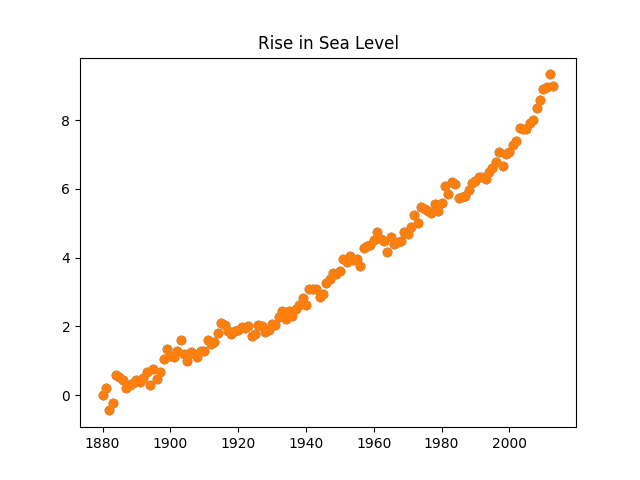
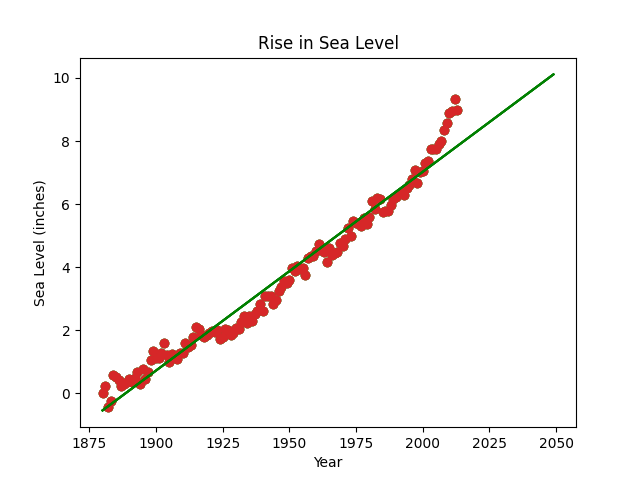
Pass test_plot_labels and test_plot_data_points.

diff --git a/test_module.py b/test_module.py
@@ -13,21 +13,21 @@ class LinePlotTestCase(unittest.TestCase):
         expected = "Rise in Sea Level"
         self.assertEqual(actual, expected, "Expected line plot title to be 'Rise in Sea Level'")
 
-    # def test_plot_labels(self):
-    #     actual = self.ax.get_xlabel()
-    #     expected = "Year"
-    #     self.assertEqual(actual, expected, "Expected line plot xlabel to be 'Year'")
-    #     actual = self.ax.get_ylabel()
-    #     expected = "Sea Level (inches)"
-    #     self.assertEqual(actual, expected, "Expected line plot ylabel to be 'Sea Level (inches)'")
-    #     actual = self.ax.get_xticks().tolist()
-    #     expected = [1850.0, 1875.0, 1900.0, 1925.0, 1950.0, 1975.0, 2000.0, 2025.0, 2050.0, 2075.0]
-    #     self.assertEqual(actual, expected, "Expected x tick labels to be '1850.0, 1875.0, 1900.0, 1925.0, 1950.0, 1975.0, 2000.0, 2025.0, 2050.0, 2075.0'")
+    def test_plot_labels(self):
+        actual = self.ax.get_xlabel()
+        expected = "Year"
+        self.assertEqual(actual, expected, "Expected line plot xlabel to be 'Year'")
+        actual = self.ax.get_ylabel()
+        expected = "Sea Level (inches)"
+        self.assertEqual(actual, expected, "Expected line plot ylabel to be 'Sea Level (inches)'")
+        actual = self.ax.get_xticks().tolist()
+        expected = [1850.0, 1875.0, 1900.0, 1925.0, 1950.0, 1975.0, 2000.0, 2025.0, 2050.0, 2075.0]
+        self.assertEqual(actual, expected, "Expected x tick labels to be '1850.0, 1875.0, 1900.0, 1925.0, 1950.0, 1975.0, 2000.0, 2025.0, 2050.0, 2075.0'")
 
-    # def test_plot_data_points(self):
-    #     actual = self.ax.get_children()[0].get_offsets().data.tolist()
-    #     expected = [[1880.0, 0.0], [1881.0, 0.22047244100000002], [1882.0, -0.440944881], [1883.0, -0.232283464], [1884.0, 0.590551181], [1885.0, 0.531496062], [1886.0, 0.43700787399999996], [1887.0, 0.216535433], [1888.0, 0.299212598], [1889.0, 0.362204724], [1890.0, 0.440944881], [1891.0, 0.374015748], [1892.0, 0.499999999], [1893.0, 0.6850393690000001], [1894.0, 0.303149606], [1895.0, 0.767716535], [1896.0, 0.46850393700000004], [1897.0, 0.6732283459999999], [1898.0, 1.043307086], [1899.0, 1.338582676], [1900.0, 1.125984251], [1901.0, 1.1102362190000001], [1902.0, 1.291338581], [1903.0, 1.6062992109999998], [1904.0, 1.2007874], [1905.0, 0.9842519679999999], [1906.0, 1.251968503], [1907.0, 1.196850392], [1908.0, 1.098425196], [1909.0, 1.27559055], [1910.0, 1.2716535420000001], [1911.0, 1.598425195], [1912.0, 1.476377951], [1913.0, 1.5472440930000002], [1914.0, 1.795275589], [1915.0, 2.10629921], [1916.0, 2.031496061], [1917.0, 1.854330707], [1918.0, 1.791338581], [1919.0, 1.854330707], [1920.0, 1.905511809], [1921.0, 1.988188974], [1922.0, 1.952755904], [1923.0, 1.999999998], [1924.0, 1.7125984230000002], [1925.0, 1.791338581], [1926.0, 2.0472440919999997], [1927.0, 2.003937006], [1928.0, 1.850393699], [1929.0, 1.905511809], [1930.0, 2.062992124], [1931.0, 2.0472440919999997], [1932.0, 2.271653541], [1933.0, 2.440944879], [1934.0, 2.228346454], [1935.0, 2.448818895], [1936.0, 2.295275588], [1937.0, 2.519685037], [1938.0, 2.6220472409999998], [1939.0, 2.826771651], [1940.0, 2.618110234], [1941.0, 3.098425194], [1942.0, 3.098425194], [1943.0, 3.098425194], [1944.0, 2.84645669], [1945.0, 2.95669291], [1946.0, 3.2519685010000003], [1947.0, 3.374015745], [1948.0, 3.562992122], [1949.0, 3.51181102], [1950.0, 3.598425193], [1951.0, 3.9724409410000003], [1952.0, 3.8700787360000004], [1953.0, 4.043307082], [1954.0, 3.929133854], [1955.0, 3.964566925], [1956.0, 3.763779524], [1957.0, 4.291338578], [1958.0, 4.346456688], [1959.0, 4.358267712], [1960.0, 4.503937003], [1961.0, 4.748031491], [1962.0, 4.543307082], [1963.0, 4.480314956], [1964.0, 4.1692913339999995], [1965.0, 4.6102362160000006], [1966.0, 4.397637791], [1967.0, 4.452755901000001], [1968.0, 4.484251963999999], [1969.0, 4.751968499], [1970.0, 4.67716535], [1971.0, 4.881889759], [1972.0, 5.240157475], [1973.0, 5.003937003], [1974.0, 5.472440939], [1975.0, 5.409448812999999], [1976.0, 5.370078735], [1977.0, 5.303149601], [1978.0, 5.555118105], [1979.0, 5.362204719], [1980.0, 5.5984251910000005], [1981.0, 6.0866141670000005], [1982.0, 5.858267711], [1983.0, 6.188976372000001], [1984.0, 6.153543301], [1985.0, 5.74803149], [1986.0, 5.771653537000001], [1987.0, 5.795275585], [1988.0, 5.980314955], [1989.0, 6.157480308999999], [1990.0, 6.2322834579999995], [1991.0, 6.334645663], [1992.0, 6.35826771], [1993.0, 6.291338576], [1994.0, 6.499999992999999], [1995.0, 6.618110229], [1996.0, 6.787401568], [1997.0, 7.066929127000001], [1998.0, 6.665354324], [1999.0, 7.011811016], [2000.0, 7.062992119], [2001.0, 7.287401567000001], [2002.0, 7.3818897560000005], [2003.0, 7.7598425120000005], [2004.0, 7.740157472000001], [2005.0, 7.74409448], [2006.0, 7.9173228270000005], [2007.0, 7.996062984], [2008.0, 8.350393692], [2009.0, 8.586614164], [2010.0, 8.901574794], [2011.0, 8.96456692], [2012.0, 9.326771643999999], [2013.0, 8.980314951]]
-    #     self.assertEqual(actual, expected, "Expected different data points in scatter plot.")
+    def test_plot_data_points(self):
+        actual = self.ax.get_children()[0].get_offsets().data.tolist()
+        expected = [[1880.0, 0.0], [1881.0, 0.22047244100000002], [1882.0, -0.440944881], [1883.0, -0.232283464], [1884.0, 0.590551181], [1885.0, 0.531496062], [1886.0, 0.43700787399999996], [1887.0, 0.216535433], [1888.0, 0.299212598], [1889.0, 0.362204724], [1890.0, 0.440944881], [1891.0, 0.374015748], [1892.0, 0.499999999], [1893.0, 0.6850393690000001], [1894.0, 0.303149606], [1895.0, 0.767716535], [1896.0, 0.46850393700000004], [1897.0, 0.6732283459999999], [1898.0, 1.043307086], [1899.0, 1.338582676], [1900.0, 1.125984251], [1901.0, 1.1102362190000001], [1902.0, 1.291338581], [1903.0, 1.6062992109999998], [1904.0, 1.2007874], [1905.0, 0.9842519679999999], [1906.0, 1.251968503], [1907.0, 1.196850392], [1908.0, 1.098425196], [1909.0, 1.27559055], [1910.0, 1.2716535420000001], [1911.0, 1.598425195], [1912.0, 1.476377951], [1913.0, 1.5472440930000002], [1914.0, 1.795275589], [1915.0, 2.10629921], [1916.0, 2.031496061], [1917.0, 1.854330707], [1918.0, 1.791338581], [1919.0, 1.854330707], [1920.0, 1.905511809], [1921.0, 1.988188974], [1922.0, 1.952755904], [1923.0, 1.999999998], [1924.0, 1.7125984230000002], [1925.0, 1.791338581], [1926.0, 2.0472440919999997], [1927.0, 2.003937006], [1928.0, 1.850393699], [1929.0, 1.905511809], [1930.0, 2.062992124], [1931.0, 2.0472440919999997], [1932.0, 2.271653541], [1933.0, 2.440944879], [1934.0, 2.228346454], [1935.0, 2.448818895], [1936.0, 2.295275588], [1937.0, 2.519685037], [1938.0, 2.6220472409999998], [1939.0, 2.826771651], [1940.0, 2.618110234], [1941.0, 3.098425194], [1942.0, 3.098425194], [1943.0, 3.098425194], [1944.0, 2.84645669], [1945.0, 2.95669291], [1946.0, 3.2519685010000003], [1947.0, 3.374015745], [1948.0, 3.562992122], [1949.0, 3.51181102], [1950.0, 3.598425193], [1951.0, 3.9724409410000003], [1952.0, 3.8700787360000004], [1953.0, 4.043307082], [1954.0, 3.929133854], [1955.0, 3.964566925], [1956.0, 3.763779524], [1957.0, 4.291338578], [1958.0, 4.346456688], [1959.0, 4.358267712], [1960.0, 4.503937003], [1961.0, 4.748031491], [1962.0, 4.543307082], [1963.0, 4.480314956], [1964.0, 4.1692913339999995], [1965.0, 4.6102362160000006], [1966.0, 4.397637791], [1967.0, 4.452755901000001], [1968.0, 4.484251963999999], [1969.0, 4.751968499], [1970.0, 4.67716535], [1971.0, 4.881889759], [1972.0, 5.240157475], [1973.0, 5.003937003], [1974.0, 5.472440939], [1975.0, 5.409448812999999], [1976.0, 5.370078735], [1977.0, 5.303149601], [1978.0, 5.555118105], [1979.0, 5.362204719], [1980.0, 5.5984251910000005], [1981.0, 6.0866141670000005], [1982.0, 5.858267711], [1983.0, 6.188976372000001], [1984.0, 6.153543301], [1985.0, 5.74803149], [1986.0, 5.771653537000001], [1987.0, 5.795275585], [1988.0, 5.980314955], [1989.0, 6.157480308999999], [1990.0, 6.2322834579999995], [1991.0, 6.334645663], [1992.0, 6.35826771], [1993.0, 6.291338576], [1994.0, 6.499999992999999], [1995.0, 6.618110229], [1996.0, 6.787401568], [1997.0, 7.066929127000001], [1998.0, 6.665354324], [1999.0, 7.011811016], [2000.0, 7.062992119], [2001.0, 7.287401567000001], [2002.0, 7.3818897560000005], [2003.0, 7.7598425120000005], [2004.0, 7.740157472000001], [2005.0, 7.74409448], [2006.0, 7.9173228270000005], [2007.0, 7.996062984], [2008.0, 8.350393692], [2009.0, 8.586614164], [2010.0, 8.901574794], [2011.0, 8.96456692], [2012.0, 9.326771643999999], [2013.0, 8.980314951]]
+        self.assertEqual(actual, expected, "Expected different data points in scatter plot.")
 
     # def test_plot_lines(self):
     #     actual = self.ax.get_lines()[0].get_ydata().tolist()

diff --git a/sea_level_predictor.py b/sea_level_predictor.py
@@ -1,22 +1,28 @@
 import pandas as pd
 import matplotlib.pyplot as plt
+import numpy as np
 from scipy.stats import linregress
 
 def draw_plot():
     # Read data from file
-    df = pd.read_csv (r'./epa-sea-level.csv', delimiter=',')
+    df = pd.read_csv (r'./epa-sea-level.csv', delimiter=',', float_precision='legacy')
 
     # Create scatter plot
     plt.scatter(df['Year'], df['CSIRO Adjusted Sea Level'])
 
     # Create first line of best fit
-
+    bestFit = linregress(df['Year'], df['CSIRO Adjusted Sea Level']);
+    xBestFit = np.arange(df['Year'].min(), 2050,1)
+    yBestFit = xBestFit * bestFit.slope + bestFit.intercept
+    plt.plot(xBestFit, yBestFit, color="green");
 
     # Create second line of best fit
 
 
     # Add labels and title
     plt.title('Rise in Sea Level');
+    plt.ylabel('Sea Level (inches)')
+    plt.xlabel('Year')
 
     # Save plot and return data for testing (DO NOT MODIFY)
     plt.savefig('sea_level_plot.png')
